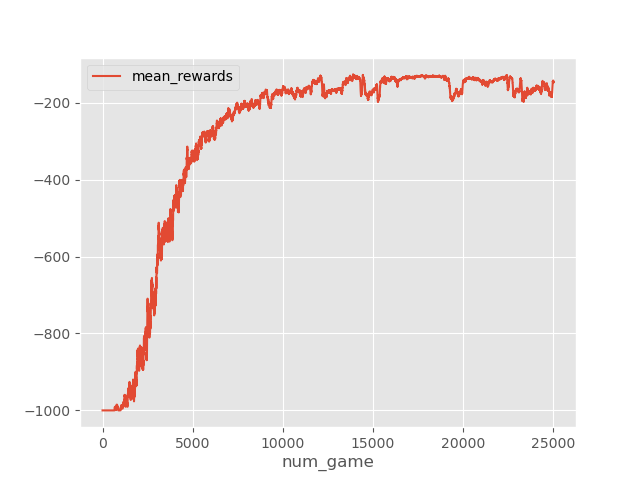
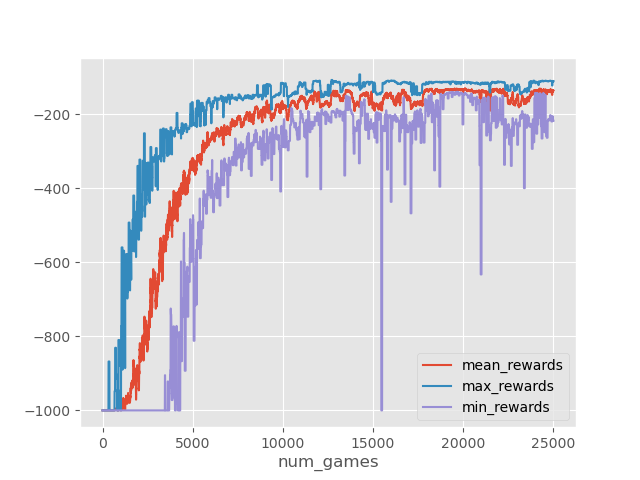
plot

diff --git a/Combine.py b/Combine.py
@@ -89,7 +89,7 @@ def start_q(epsilon,Q_score,Q_total_rewards):
     # plt.plot(mean_rewards)
     # plt.savefig('Q-Learning_rewards.png')
 
-    q_df = pd.DataFrame({'num_game':num_game, 'mean_rewards':mean_rewards, 'max_rewards':max_rewards, 'min_rewards':min_rewards})
+    q_df = pd.DataFrame({'num_games':num_game, 'mean_rewards':mean_rewards, 'max_rewards':max_rewards, 'min_rewards':min_rewards})
 
     return q_df
     
@@ -106,7 +106,7 @@ def start_sarsa(epsilon,S_score,S_total_rewards):
             print(f'episode {i}, score {S_score}, epsilon {epsilon:.3f}')
 
         S_score = 0
-        action = max_action(Q, state) if np.random.random() > epsilon else env.action_space.sample()
+        action = max_action(S, state) if np.random.random() > epsilon else env.action_space.sample()
 
         while not done:
         #     if i % 1000 == 0:
@@ -119,10 +119,10 @@ def start_sarsa(epsilon,S_score,S_total_rewards):
             # print(new_obs)
             S_score += reward
 
-            action_ = max_action(Q, new_state)
+            action_ = max_action(S, new_state)
             # ! update Q table with new value
-            Q[state, action] = Q[state, action] + \
-                learning_rate*(reward + gamma*Q[new_state, action_] - Q[state, action])
+            S[state, action] = S[state, action] + \
+                learning_rate*(reward + gamma*S[new_state, action_] - S[state, action])
             state = new_state
             action = action_
 
@@ -194,10 +194,10 @@ if __name__ == "__main__":
     epsilon =  1.0
     s_data = start_sarsa(epsilon, S_score, S_total_rewards)
 
-    q_lines = q_data.plot.line(x='num_game')
+    q_lines = q_data.plot.line(x='num_games')
     q_lines.figure.savefig('Q-Learning_rewards.png')
 
-    s_lines = s_data.plot.line(x='num_game')
+    s_lines = s_data.plot.line(x='num_games')
     s_lines.figure.savefig('Sarsa_rewards.png')
 
 

diff --git a/testpy.py b/testpy.py
@@ -4,9 +4,22 @@ import matplotlib.pyplot as plt
 df = pd.DataFrame({
     'num':[1,2,3,4,5,6,7,8,9],
     'age':[23,78,22,19,45,33,20,21,33],
-    'gender':[3,8,2,9,5,3,10,11,23],
+    'bb':[21,72,42,19,25,33,40,11,53]
 })
 
-testplt = df.plot.line(x='num')
-testplt.figure.savefig('testplt.png')
+df1 = pd.DataFrame({
+    'num':[1,2,3,4,5,6,7,8,9],
+    'gender':[3,8,2,9,5,3,10,11,23],
+    'cc':[213,8,24,23,45,12,30,51,63]
+})
+
+bx = df.plot.line(x='num',y ='age')
+p1 = df1.plot.line(x='num',y='gender',ax=bx)
+p1.figure.savefig('p1.png')
+
+
+
+cx = df.plot.line(x='num', y='bb')
+p2 = df1.plot.line(x='num',y = 'cc', ax=cx)
+p2.figure.savefig('p2.png')
 
